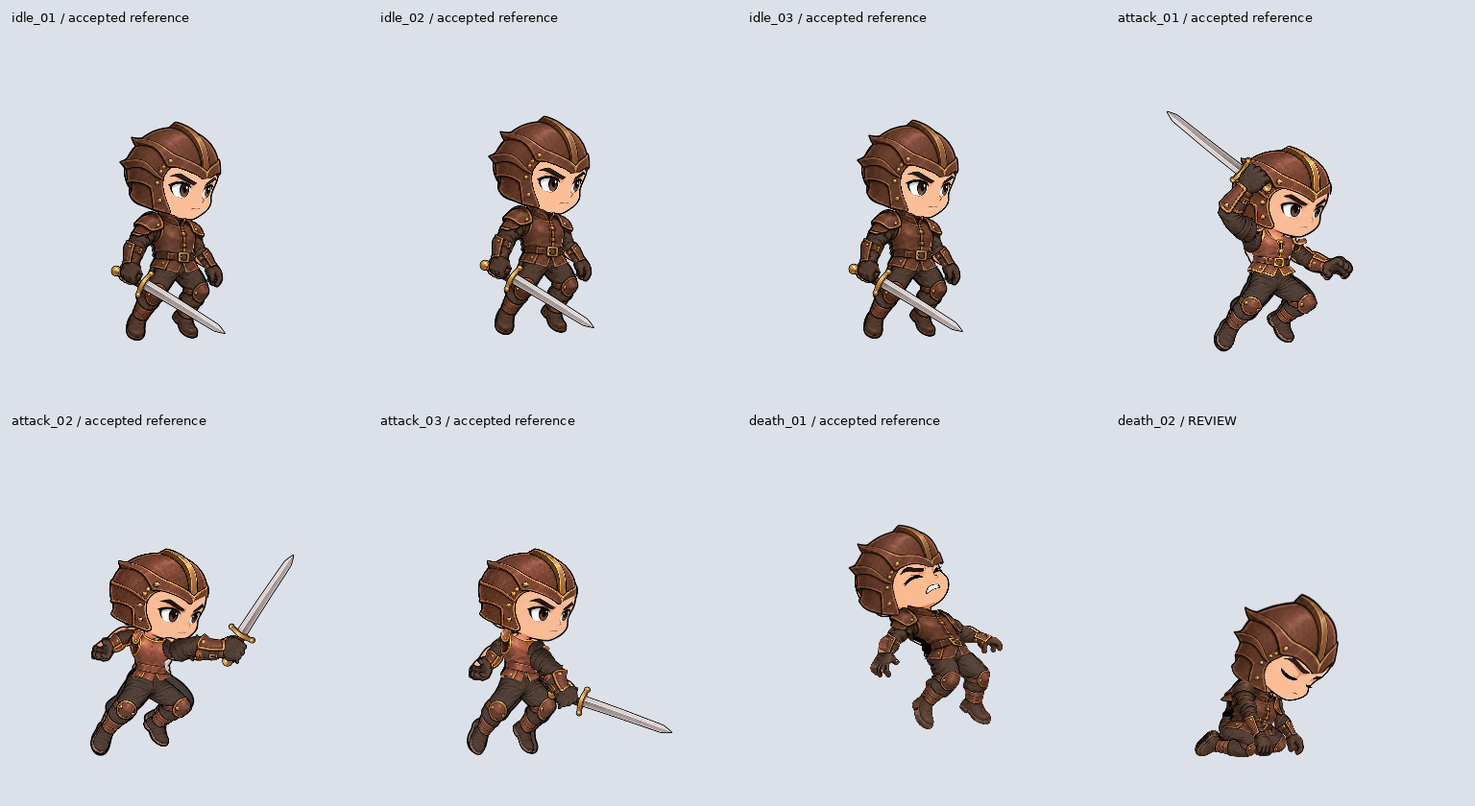
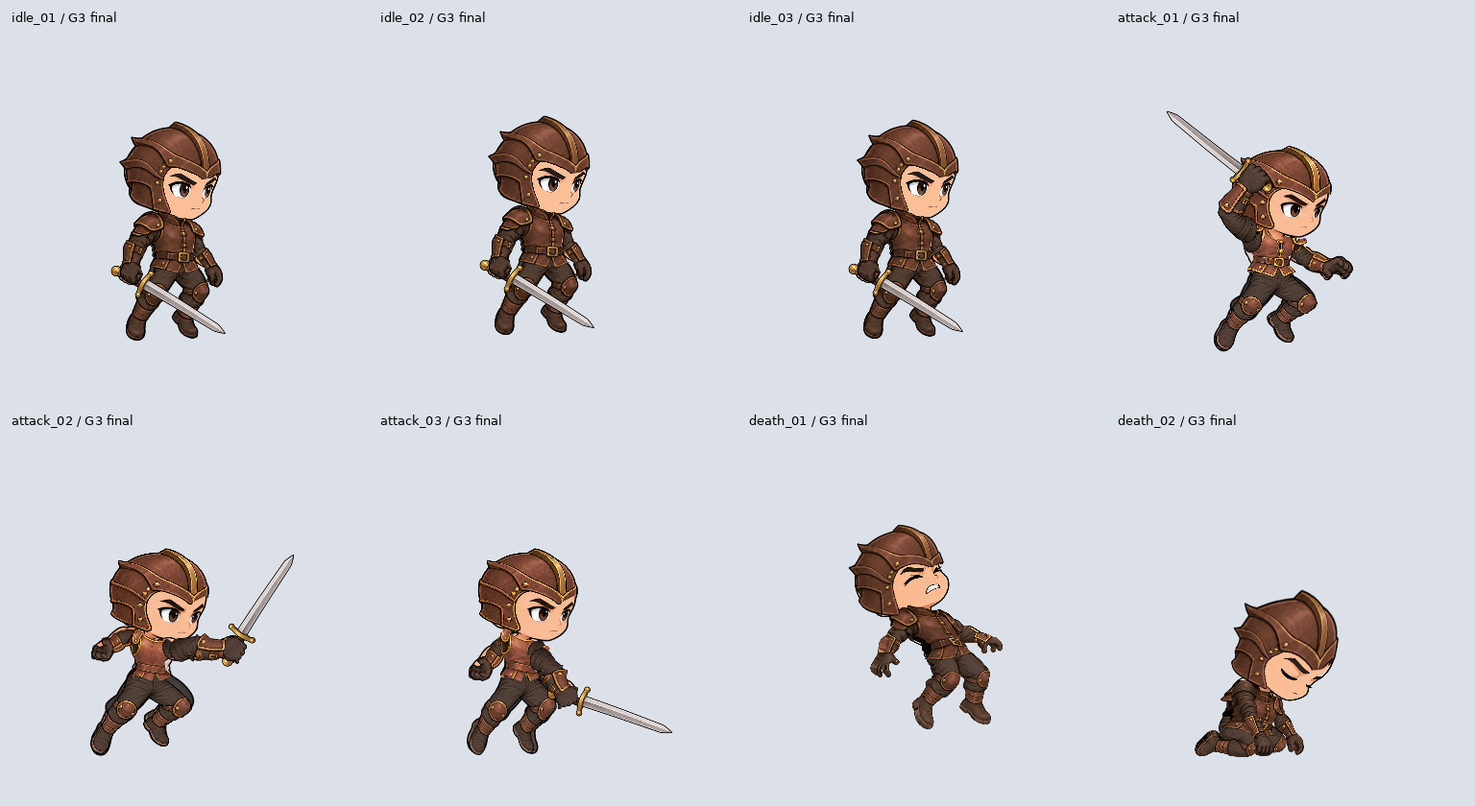
art(g16): finalize Death_02 helmet lift and hand off complete G3 artwork

diff --git a/docs/g16-leather-g2/g3/build_current_qa.py b/docs/g16-leather-g2/g3/build_current_qa.py
@@ -23,7 +23,7 @@ for f in frames:
         path=source(f)/(n+'.png');im=Image.open(path);assert im.size==(768,768) and im.mode=='RGBA'
         a=np.array(im)[:,:,3];assert not a[0].any() and not a[-1].any() and not a[:,0].any() and not a[:,-1].any()
         parts[n]=im
-        rec={'frame':f,'layer':n,'path':str(path.relative_to(R)),'sha256':sha(path.read_bytes()),'dimensions':[768,768],'mode':'RGBA','origin':[0,0],'alphaBounds':im.getbbox(),'alphaNonzeroPixels':int((a>0).sum()),'edgeAlphaNonzero':0,'artStatus':'OWNER_REVIEW_PENDING' if f=='death_02' else 'ESTABLISHED_OWNER_ACCEPTED_REFERENCE'}
+        rec={'frame':f,'layer':n,'path':str(path.relative_to(R)),'sha256':sha(path.read_bytes()),'dimensions':[768,768],'mode':'RGBA','origin':[0,0],'alphaBounds':im.getbbox(),'alphaNonzeroPixels':int((a>0).sum()),'edgeAlphaNonzero':0,'artStatus':'OWNER_ACCEPTED_G3'}
         if not a.any():
             rec['emptyReason']='Owner: coverage belongs to each equipment piece; no shared underlay artwork' if n=='coverage_underlay' else 'Death releases weapon; canonical Azure Death contract requires no grip and selects a transparent sword.'
             assert n=='coverage_underlay' or (n=='sword' and f.startswith('death'))
@@ -66,7 +66,7 @@ def sheet(items,path,cols=3):
     rows=(len(items)+cols-1)//cols;im=Image.new('RGB',(cols*384,rows*420),(220,225,233));dr=ImageDraw.Draw(im)
     for i,f in enumerate(items):
         x=(i%cols)*384;y=(i//cols)*420
-        dr.text((x+12,y+10),f+(' / REVIEW' if f=='death_02' else ' / accepted reference'),font=small,fill='black')
+        dr.text((x+12,y+10),f+' / G3 final',font=small,fill='black')
         im.paste(flat(comps[f]).resize((384,384),Image.Resampling.NEAREST),(x,y+32))
     im.save(path)
 sheet(frames,Q/'FULL_SET_CONTACT_SHEET.png',4)
@@ -88,13 +88,13 @@ for f in frames[6:]:
     crop=(100,140,740,680) if f=='death_01' else (150,220,530,710)
     w=crop[2]-crop[0];h=crop[3]-crop[1];compare=Image.new('RGB',(w*3,h+50),(220,225,233));dr=ImageDraw.Draw(compare)
     base=Image.open(R/'r2-upload/hero/v5/g2/base'/(f+'.png')).convert('RGBA')
-    for i,(label,im) in enumerate([('Canonical Base',base),('Azure / main resolver',az),('Leather / '+('OWNER REVIEW' if f=='death_02' else 'OWNER APPROVED'),comps[f])]):
+    for i,(label,im) in enumerate([('Canonical Base',base),('Azure / main resolver',az),('Leather / OWNER ACCEPTED',comps[f])]):
         dr.text((i*w+10,12),label,font=small,fill='black');compare.paste(flat(im.crop(crop)),(i*w,45))
     compare.save(D/(f.upper()+'_COMPARISON.png'))
 
 parts_sheet=Image.new('RGB',(800,7*230+40),(220,225,233));dr=ImageDraw.Draw(parts_sheet)
 for col,f in enumerate(frames[6:]):
-    dr.text((col*400+12,10),f+(' / Owner approved' if col==0 else ' / Owner review'),font=font,fill='black')
+    dr.text((col*400+12,10),f+' / Owner accepted',font=font,fill='black')
     for row,n in enumerate(names):
         im=Image.open(source(f)/(n+'.png'));box=im.getbbox();y=40+row*230
         dr.text((col*400+12,y+5),n,font=small,fill='black')
@@ -103,23 +103,37 @@ for col,f in enumerate(frames[6:]):
         else:dr.text((col*400+20,y+90),'INTENTIONALLY TRANSPARENT',font=small,fill='black')
 parts_sheet.save(D/'DEATH_PARTS_SHEET.png')
 
-# Direct before/after study of the requested order correction, identical art.
-old=Image.open(R/'r2-upload/hero/v5/g2/base/death_02.png').convert('RGBA')
-for n in ['coverage_underlay','legs_boots','arm_rear','arm_front','torso_armor','helmet','sword']:
-    old=Image.alpha_composite(old,Image.open(source('death_02')/(n+'.png')).convert('RGBA'))
-new=comps['death_02'];diff=np.any(np.array(old)!=np.array(new),axis=2)
-arm=np.array(Image.open(source('death_02')/'arm_rear.png'))[:,:,3]>0
-assert not (diff & ~arm).any()
+# Final Owner instruction: only Death_02 helmet moves up 8px from 03b50c0.
+previous='03b50c08c06d5decb1cc9f246a3c0f70e4aa50b6'
+oldhelmet=Image.open(io.BytesIO(gitbytes(previous,source('death_02')/'helmet.png'))).convert('RGBA')
+newhelmet=Image.open(source('death_02')/'helmet.png').convert('RGBA')
+expected=Image.new('RGBA',(768,768));expected.paste(oldhelmet,(0,-8))
+assert expected.tobytes()==newhelmet.tobytes()
+assert not np.array(oldhelmet)[:8,:,3].any()
+unchanged=0
 for rec in records:
-    path=R/rec['path'];assert path.read_bytes()==gitbytes('2264d4117a711acaf453631fefd8d9cb36a34c16',path)
-order_sheet=Image.new('RGB',(1000,950),(220,225,233));dr=ImageDraw.Draw(order_sheet)
-for col,(label,im) in enumerate([('BEFORE / right arm behind armor',old),('AFTER / right arm in front of armor',new)]):
-    x=col*500;dr.text((x+12,14),label,font=small,fill='black')
-    order_sheet.paste(flat(im.crop((180,320,490,690))).resize((465,555),Image.Resampling.NEAREST),(x+17,50))
-    order_sheet.paste(flat(im.crop((240,505,365,605))).resize((450,360),Image.Resampling.NEAREST),(x+25,580))
-order_sheet.save(D/'DEATH_02_ARM_ORDER_COMPARISON.png')
-report={'status':'DEATH_01_APPROVED_DEATH_02_OWNER_REVIEW_PENDING','mainChecked':subprocess.check_output(['git','rev-parse','origin/main'],cwd=R,text=True).strip(),'risk':'LOW offline order-only correction','expectedPaths':56,'presentPaths':56,'death02CandidatePaths':7,'establishedReferencePaths':49,'finalInventoryPromoted':False,'G3Complete':False,'G4Ready':False,'baseSha256':basehash,'protectedExistingEquipmentPngCount':len(protected),'protectedExistingEquipmentByteIdentical':True,'all56EquipmentPngsByteIdenticalTo':'2264d4117a711acaf453631fefd8d9cb36a34c16','death02RightArmOrderCorrection':{'sourceLayer':'arm_rear','anatomy':'right arm','visibleOrder':'right arm in front of chest','changedCompositePixels':int(diff.sum()),'allChangedPixelsInsideRightArmAlpha':True,'runtimeCompatible':None,'runtimeCompatibilityStatus':'UNREVIEWED_SEPARATE_DEV_GATE'},'death01ApprovedCompositePixelIdentical':True,'runtimeChanged':False,'productionManifestChanged':False,'runtimeOffsetBaked':False,'actualRuntimeRendererTested':False,'fullSetVisualAcceptance':False,'assemblyOrderByFrame':orders,'azureSources':azureledger,'handOcclusion':hand,'files':records,'remainingGate':'Owner acceptance of Death_02, then reconcile acceptance state and proceed G4 visual QA; separate DEV review for Attack/Death_02 foreground arm order and Attack hand crops.'}
+    path=R/rec['path']
+    if not (rec['frame']=='death_02' and rec['layer']=='helmet'):
+        assert path.read_bytes()==gitbytes(previous,path);unchanged+=1
+assert unchanged==55
+report={'status':'G16 G3 ARTWORK COMPLETE — G4 VISUAL QA PENDING',
+    'mainChecked':subprocess.check_output(['git','rev-parse','origin/main'],cwd=R,text=True).strip(),
+    'risk':'LOW final integer helmet placement and artwork handoff',
+    'expectedPaths':56,'presentPaths':56,'acceptedG3Paths':56,'candidatePaths':0,
+    'finalInventoryPromoted':True,'G3Complete':True,'G4Ready':True,'G4VisualQaPassed':False,
+    'ownerFinalInstruction':'2026-10-28: raise Death_02 helmet 8px then submit; preserve foreground right arm',
+    'finalChange':{'frame':'death_02','layer':'helmet','offlineTranslation':[0,-8],
+        'previousCommit':previous,'exactPixelTranslationVerified':True,'clippedNonzeroAlphaPixels':0,
+        'otherEquipmentPngsByteIdentical':unchanged,'generatedArtworkUsedForFinalChange':False},
+    'baseSha256':basehash,'protectedExistingEquipmentPngCount':len(protected),
+    'protectedExistingEquipmentByteIdentical':True,'death01ApprovedCompositePixelIdentical':True,
+    'death02RightArmOrder':{'sourceLayer':'arm_rear','visibleOrder':'right arm in front of chest',
+        'runtimeCompatibilityStatus':'SEPARATE_DEV_GATE_NOT_APPROVED'},
+    'runtimeChanged':False,'productionManifestChanged':False,'runtimeOffsetBaked':False,
+    'actualRuntimeRendererTested':False,'assemblyOrderByFrame':orders,'azureSources':azureledger,
+    'handOcclusion':hand,'files':records,
+    'remainingGate':'G4 full-set visual/animation QA, then G5 runtime regression and separate DEV review for Attack/Death_02 foreground arm order and Attack hand crops. G6 R2/manifest/deploy not authorized.'}
 (P/'VALIDATION.json').write_text(json.dumps(report,indent=2)+'\n')
 (D/'HAND_OCCLUSION.json').write_text(json.dumps({'frames':{k:v for k,v in hand.items() if k.startswith('death')},'attackStatus':'UNRESOLVED_SEPARATE_DEV_GATE','runtimeChanged':False},indent=2)+'\n')
 (P/'SHA256SUMS').write_text(''.join(r['sha256']+'  '+str(Path(r['path']).relative_to(P.relative_to(R)))+'\n' for r in records))
-print('PASS: 56 declared PNG paths (7 Death_02 candidates); Base and 49 existing equipment checkpoints preserved; Death_01 matches accepted preview. Owner Death_02 acceptance and G4 remain pending.')
+print('PASS: 56 final G3 paths; only Death_02 helmet changed by exact [0,-8]; other 55 equipment PNGs, all Bases and accepted Death_01 unchanged. G4 visual QA pending.')

diff --git a/docs/g16-leather-g2/g3/death-review/build.py b/docs/g16-leather-g2/g3/death-review/build.py
@@ -123,5 +123,5 @@ protected=list((R/'r2-upload/hero/v5/g2/base').glob('*.png'))+list((R/'docs/g16-
 for f in protected:assert subprocess.check_output(['git','show','HEAD:'+str(f.relative_to(R))],cwd=R)==f.read_bytes()
 (P/'PLACEMENT.json').write_text(json.dumps(guides,indent=2)+'\n')
 (P/'DONOR_ADMISSION.json').write_text(json.dumps(admissions,indent=2)+'\n')
-(P/'VALIDATION.json').write_text(json.dumps({'status':'DEATH_01_OWNER_APPROVED_DEATH_02_REVIEW_PENDING','mainChecked':subprocess.check_output(['git','rev-parse','origin/main'],cwd=R,text=True).strip(),'risk':'MEDIUM','ownerAccepted':'2026-10-28 latest placement-review-v2 after.png at 52252e222217c3b8207093d7dff59e3974c74698','approvedOfflineShifts':{'helmet':[-2,-8],'torso_armor':[-2,-6]},'torsoFacing':'front / reclined three-quarter','files':records,'azureSources':azsources,'protectedPngCount':len(protected),'protectedByteIdentical':True,'baseResampled':False,'runtimeChanged':False,'runtimeOffsetBaked':False,'productionManifestChanged':False,'G3Complete':False,'G4Ready':False,'death01VisualAcceptance':True,'death02VisualAcceptance':False,'technicalChecks':'PASS; Death_02 still requires Owner visual review'},indent=2)+'\n')
+(P/'VALIDATION.json').write_text(json.dumps({'status':'DEATH_01_OWNER_APPROVED','mainChecked':subprocess.check_output(['git','rev-parse','origin/main'],cwd=R,text=True).strip(),'risk':'MEDIUM','ownerAccepted':'2026-10-28 latest placement-review-v2 after.png at 52252e222217c3b8207093d7dff59e3974c74698','approvedOfflineShifts':{'helmet':[-2,-8],'torso_armor':[-2,-6]},'torsoFacing':'front / reclined three-quarter','files':records,'azureSources':azsources,'protectedPngCount':len(protected),'protectedByteIdentical':True,'baseResampled':False,'runtimeChanged':False,'runtimeOffsetBaked':False,'productionManifestChanged':False,'death01VisualAcceptance':True,'technicalChecks':'PASS; final all-frame gate is in ../VALIDATION.json'},indent=2)+'\n')
 print('PASS: Death_01 accepted positions baked into 7 paths; Base, Idle and Attack bytes unchanged.')

diff --git a/docs/g16-leather-g2/g3/death-review/build_death02.py b/docs/g16-leather-g2/g3/death-review/build_death02.py
@@ -41,6 +41,8 @@ guides={};parts={n:Image.new('RGBA',(768,768)) for n in LAYERS}
 parts['helmet']=warp('helmet',
  [[260,290],[280,235],[355,195],[420,230],[449,280],[435,308],[390,287],[345,278],[325,329],[352,375],[295,356]],
  [[276,434],[295,380],[395,342],[456,391],[470,452],[444,500],[405,466],[360,454],[315,485],[331,534],[277,502]])
+# Owner final instruction: helmet up exactly 8px, then submit the artwork.
+shifted=Image.new('RGBA',(768,768));shifted.paste(parts['helmet'],(0,-8));parts['helmet']=shifted
 parts['torso_armor']=warp('torso_armor',
  [[281,400],[307,398],[333,384],[360,395],[384,402],[409,410],[423,426],[322,437],[397,438],[317,467],[382,473],[355,490],[309,497],[407,502]],
  [[252,538],[278,532],[306,535],[328,550],[347,552],[355,566],[365,584],[270,566],[348,588],[254,594],[321,610],[288,610],[239,615],[338,631]])
@@ -76,5 +78,5 @@ order=['coverage_underlay','legs_boots','arm_front','torso_armor','helmet','swor
 out=base.copy()
 for n in order:out=Image.alpha_composite(out,parts[n])
 Q=P/'qa';Q.mkdir(exist_ok=True);out.save(Q/'death_02.png')
-(P/'DEATH_02_PLACEMENT.json').write_text(json.dumps({'guides':guides,'admissions':specs,'order':order,'runtimeOffsetBaked':False,'generatedBaseUsed':False,'torsoFacing':'front / bowed three-quarter'},indent=2)+'\n')
-print('Built 7 Death_02 candidate layers from distinct canonical kneeling pose; visual acceptance pending.')
+(P/'DEATH_02_PLACEMENT.json').write_text(json.dumps({'guides':guides,'admissions':specs,'order':order,'finalHelmetOfflineTranslation':[0,-8],'ownerFinalInstruction':'2026-10-28: raise helmet 8px then submit; right arm remains in front of chest','artStatus':'OWNER_ACCEPTED_FOR_G3_HANDOFF','runtimeOffsetBaked':False,'generatedBaseUsed':False,'torsoFacing':'front / bowed three-quarter'},indent=2)+'\n')
+print('Built 7 final Death_02 layers with Owner-requested helmet up 8px and foreground right arm.')

diff --git a/docs/g16-leather-g2/g3/README.md b/docs/g16-leather-g2/g3/README.md
@@ -1,28 +1,26 @@
-# G16 G3 — current artwork review
+# G16 G3 — artwork handoff
 
-Status: **DEATH_01 OWNER APPROVED / DEATH_02 OWNER REVIEW PENDING** (2026-10-28). Existing Draft PR #160, branch `art/g16-g3-leather-frames`. Latest main inspected: `614d8e363efa074d257319f3e3578a56196c2a06`. Risk MEDIUM: isolated Death equipment art and scoped documentation cleanup.
+Status: **G16 G3 ARTWORK COMPLETE — G4 VISUAL QA PENDING** (2026-10-28). Existing Draft PR #160, branch `art/g16-g3-leather-frames`. Latest main checked: `614d8e363efa074d257319f3e3578a56196c2a06`. Risk LOW for the final exact helmet placement; no application/runtime source change.
 
-## Current source of truth
+## Final inventory and approval
 
-- `VALIDATION.json`: current 8-frame inventory and per-frame SHA-256, alpha, dimensions, origin, draw-order and hand-occlusion records.
-- `SHA256SUMS`: the 56 current declared equipment paths only, relative to this folder. Historical authoring checkpoints are not extra final exports.
-- `qa/FULL_SET_CONTACT_SHEET.png`: all eight actual export reassemblies. Idle/Attack/Death contact sheets and GIF previews are alongside it.
-- `death-review/DEATH_02_COMPARISON.png`: canonical Base / current-main Azure resolver / Leather candidate, same crop, origin and scale.
-- `death-review/DEATH_PARTS_SHEET.png`: both Death frames and all 14 isolated declared pieces.
-- `PROJECT_LEAD_HANDOFF.md`: one current, copy-ready handoff. Superseded checkpoint READMEs, stale validation ledgers and handoffs have been removed at Owner request; `CLEANUP.json` records scope and recovery commit.
+All 8 frames × 7 paths = **56 accepted G3 PNG paths** are present. `VALIDATION.json` declares every path, SHA-256, dimensions, RGBA, alpha envelope, origin, assembly order, hand-occlusion status and Base source hash. `SHA256SUMS` verifies the 56 final exported paths relative to this folder. All are 768×768 RGBA, fixed origin [0,0], no nonzero canvas-edge alpha, no baked runtime Y=84. Underlay and Death sword have explicit emptyReason. No additional equipment export path is introduced.
 
-## Approval record and export locations
+Idle remains in exports/idle_01–03. All 21 approved Attack files remain in attack-back-torso-review/exports/attack_01–03. Death files remain in death-review/exports/death_01–02. Historical authoring checkpoints are source material, not additional final exports.
 
-Idle: approved G2 material, exact canonical bob translations, `exports/idle_01` through `idle_03`. Attack: all poses and corrected Attack_02/03 rear torso surfaces approved; all 21 PNGs stay unchanged in `attack-back-torso-review/exports/attack_01` through `attack_03`. Death_01: Owner accepted the latest two-step placement preview at `52252e2`, then said to continue. Helmet [-2,-8] and chest [-2,-6] are now baked as exact integer offline shifts into `death-review/exports/death_01`; the actual reassembly matches the accepted preview pixel-for-pixel. The five other Death_01 files are byte-identical.
+Death_01 retains its accepted helmet [-2,-8] / torso [-2,-6] placement; its actual reassembly matches the Owner-approved preview pixel-for-pixel. Death_02 retains the distinct canonical kneeling anatomy and original face; anatomical right arm (arm_rear) is in front of the chest. The Owner's final instruction was to raise its helmet another 8px and submit. The exact [0,-8] shift is now baked into its existing helmet PNG, with no resampling, clipping or regeneration. The other 55 equipment PNGs match commit 03b50c08c06d5decb1cc9f246a3c0f70e4aa50b6 byte-for-byte. All 8 canonical Bases are unchanged.
 
-Death_02: seven new candidate files in `death-review/exports/death_02`. It uses its own canonical kneeling/collapsed anatomy, manual clothing-only helmet/chest reconstruction from approved Idle pieces, and three bounded isolated-part ImageGen RGB donors. No generated Base/face/body geometry is admitted. Prompts, inputs, donor masters and admission masks remain available for future edits.
+## Review and reproduction
 
-## Gate boundaries
+- qa/FULL_SET_CONTACT_SHEET.png; Idle/Attack sheets and all three animation GIFs in qa/.
+- death-review/DEATH_01_COMPARISON.png and DEATH_02_COMPARISON.png: same-origin Base/current-main Azure resolver/final Leather comparisons.
+- death-review/DEATH_CONTACT_SHEET.png and DEATH_PARTS_SHEET.png: both Death poses and all fourteen isolated pieces.
+- PROJECT_LEAD_HANDOFF.md: current copy-ready handoff. CLEANUP.json records removal of obsolete status documents, stale ledgers and superseded comparison drafts. Current approval evidence, generation prompts, source masters and contracts are retained.
 
-All **56 declared paths are present**, consisting of 49 established reference paths and **7 unaccepted Death_02 candidate paths**. This is not 56/56 visual acceptance, final inventory promotion, G3 completion or G4 acceptance. Review Death_02 next; after acceptance reconcile the final state and continue G4. Technical checks do not substitute for Owner visual acceptance.
+Rebuild Death_01 with death-review/build.py; Death_02 with death-review/build_death02.py; refresh inventory/sheets/GIFs with build_current_qa.py (paths relative to this folder, run Python from repository root). Verify with `sha256sum -c SHA256SUMS` from this folder. The final QA builder checks the exact requested helmet shift and preservation of the other 55 files.
 
-All eight original Bases, 21 Attack PNGs and 28 protected G2/G3 Idle checkpoints remain byte-identical. All current exports are 768×768 RGBA at origin [0,0], no edge alpha/clipping, no baked runtime Y=84. Underlay stays empty; Death sword stays empty with explicit emptyReason.
+## Remaining gates
 
-Idle uses inherited reviewed hand crops. Attack uses the Owner-approved offline order. Death_02 now also puts the anatomical right arm (arm_rear) in front of the torso, per Owner correction; Death_01 stays unchanged. Attack/Death_02 order and Attack crop compatibility remain a separate DEV gate. Empty Death weapons need no post-sword hand crop. All-frame sheets/GIFs are offline artwork evidence, not actual renderer regression tests. No production manifest, runtime, Base/Azure/Skeleton, R2, merge, gameplay, API/Worker/D1 or deployment change.
+G3 artwork completion is not G4 visual/animation QA, G5 renderer regression approval or G6 publication. Project Lead/Owner should review the final full set and animation sheets at G4. Separate DEV concern: Attack/Death_02 foreground right-arm order differs from merged leather_overlap_v1; Attack per-pose runtime hand crops remain unresolved. Idle reviewed crops are retained; empty Death weapons require no post-sword hand crop. Do not copy Idle crops or claim that offline reassemblies certify the renderer.
 
-Rebuild Death_01: `python docs/g16-leather-g2/g3/death-review/build.py`. Rebuild Death_02: `python docs/g16-leather-g2/g3/death-review/build_death02.py` (do not use --prepare unless updating pose inputs). Refresh current inventory/sheets/GIFs: `python docs/g16-leather-g2/g3/build_current_qa.py`. Verify the final-path ledger with `sha256sum -c SHA256SUMS` from this folder. Older nested scripts/images are source-authoring checkpoints only; their removed status reports must not be treated as current gates.
+No runtime/profile/slot, production manifest, Base/Azure/Skeleton, gameplay, API/Worker/D1, R2, merge or deployment change. Keep PR Draft pending the applicable review gates.

diff --git a/docs/g16-leather-g2/g3/death-review/README.md b/docs/g16-leather-g2/g3/death-review/README.md
@@ -1,17 +1,15 @@
-# G16 Death artwork — current review
+# G16 Death — final G3 artwork
 
-**Death_01 OWNER APPROVED / Death_02 OWNER REVIEW PENDING**, 2026-10-28. Main `614d8e3`, existing Draft PR #160. Current gate/inventory/handoff: [G3 README](../README.md) and [Project Lead handoff](../PROJECT_LEAD_HANDOFF.md).
+**G16 G3 ARTWORK COMPLETE — G4 VISUAL QA PENDING**, 2026-10-28. Main checked 614d8e3; existing Draft PR #160. Final inventory and current handoff: [G3 README](../README.md) / [Project Lead handoff](../PROJECT_LEAD_HANDOFF.md).
 
-## Death_01 accepted result
+Death_01: Owner accepted helmet [-2,-8] and torso [-2,-6] at 52252e2. Exact offline integer placements are baked into its seven paths; actual reassembly remains pixel-identical to the accepted preview. The latest accepted comparison is preserved in qa/DEATH_01_OWNER_APPROVAL_SHEET.png.
 
-Owner accepted the final placement preview at `52252e222217c3b8207093d7dff59e3974c74698`: helmet left 2px/up 8px, torso left 2px/up 6px from the initial prototype. Those exact integer translations are baked into the existing seven layer paths; the other five files are byte-identical. The actual reassembly matches the accepted preview pixel-for-pixel. `qa/DEATH_01_OWNER_APPROVAL_SHEET.png` preserves the latest approved comparison. Superseded placement v1/v2 trial folders and the prior visual-hold sheet are removed. Original source checkpoints remain recoverable in Git.
+Death_02: canonical bowed/kneeling anatomy, original face/expression, approved Leather material and foreground anatomical right arm (arm_rear) are retained. Owner's final instruction: raise helmet 8px then submit. Its existing helmet PNG is moved [0,-8] with no interpolation or clipping; the other six Death_02 files and all 49 other final-frame files remain byte-identical to 03b50c0. No new generated artwork is used for this final correction.
 
-## Death_02 candidate
+DEATH_02_COMPARISON.png shows canonical Base, current-main Azure resolver and final Leather using one common canvas crop/scale. DEATH_CONTACT_SHEET.png, DEATH_PARTS_SHEET.png, ../qa/FULL_SET_CONTACT_SHEET.png and animation GIFs are refreshed from the actual exports. The superseded right-arm before/after comparison has been removed; Git history retains the earlier checkpoint.
 
-`DEATH_02_COMPARISON.png` compares canonical Base, main-manifest Azure resolved through the actual resolver and the actual Leather seven-PNG reassembly. It uses one shared origin/crop/scale, without runtime Y=84. `DEATH_PARTS_SHEET.png` shows the isolated pieces. `DEATH_CONTACT_SHEET.png` shows both frames; all-frame contact sheets and animation previews are in ../qa/.
+The distinct Death_02 was constructed from isolated approved Idle helmet/chest material using clothing-only TPS plus three bounded built-in ImageGen sleeve/glove/folded-leg RGB donors. No donor anatomy, whole Hero or generated face was admitted. Exact prompts, target/design inputs, complete donors, guides and masks remain in masters/ and DEATH_02_PLACEMENT.json. Use build.py for Death_01, build_death02.py for Death_02, and ../build_current_qa.py for final integrity checks and reassemblies. Each piece owns its hidden insertion material; underlay stays transparent. Death sword stays transparent under the approved no-grip/released-weapon pose contract.
 
-Canonical bowed/kneeling anatomy and original face/expression are preserved. Helmet and front torso use clothing-only TPS reconstruction from approved G2 isolated material, with explicitly recorded manual visual guides (not exact rig pivots). Three built-in ImageGen edits provide isolated sleeves/gloves/folded-leg material. Only donor RGB is admitted inside canonical per-part alpha masks; generated anatomy and donor geometry are rejected. Sleeve caps, chest shirt coverage and waistband insertion belong to their own equipment piece. `coverage_underlay` remains transparent. The Death sword is intentionally transparent because the pose releases it and the approved Azure contract specifies no grip.
+Death_01 uses Base → legs → both arms → torso → helmet; Death_02 uses Base → legs → left arm → torso → helmet → right arm (empty paths omitted). These are art assemblies. Death_02 foreground arm order and Attack order/crops still need separate DEV compatibility review; no runtime/profile source is changed. Empty Death weapons need no post-sword crop.
 
-Use `build.py` for accepted Death_01, `build_death02.py` for the distinct Death_02 (never a translation/rotation of Death_01), and ../build_current_qa.py for current validation, comparison sheets and animation previews. `DEATH_02_PLACEMENT.json` records the per-part guides and masks; `masters/death_02/PROMPTS.json` records exact built-in ImageGen prompts. Retained masters/ inputs, complete donors and masks are reusable source material, not additional exported paths.
-
-Death_02 still needs Owner visual acceptance. Do not infer G3 completion, G4 visual approval or runtime/production readiness from file presence. Death_01 retains its accepted Base → legs → both arms → torso → helmet assembly. Owner corrected Death_02 to Base → legs → left arm → torso → helmet → right arm (empty paths omitted), bringing the anatomical right arm (arm_rear) in front of the armor. See DEATH_02_ARM_ORDER_COMPARISON.png. All 56 equipment PNG bytes are unchanged by this order-only correction. This foreground arm order still needs separate DEV compatibility review; no runtime/profile source is changed. Death weapons need no post-sword crop. Existing Attack order and crop review remains separate. No R2, production manifest integration, merge or deploy.
+Owner accepted G3 handoff subject to the exact final helmet lift. G4 full-set visual/animation QA and later runtime/publication gates remain pending. No R2, production manifest integration, merge or deployment authorization is implied.

diff --git a/docs/g16-leather-g2/g3/PROJECT_LEAD_HANDOFF.md b/docs/g16-leather-g2/g3/PROJECT_LEAD_HANDOFF.md
@@ -1,11 +1,9 @@
-G16 G3 — DEATH_01 APPROVED / DEATH_02 OWNER REVIEW PENDING
+G16 G3 ARTWORK COMPLETE — G4 VISUAL QA PENDING
 
-Continue existing Draft PR #160 on art/g16-g3-leather-frames. Latest main checked 614d8e363efa074d257319f3e3578a56196c2a06. Risk MEDIUM.
+Existing Draft PR #160 | branch art/g16-g3-leather-frames | latest main checked 614d8e363efa074d257319f3e3578a56196c2a06.
 
-Death_01 accepted helmet [-2,-8] and torso [-2,-6] are baked into its existing seven exports; reassembly matches the accepted preview pixel-for-pixel. Death_02 now has seven candidate layers, preserving distinct canonical kneeling anatomy and original Base face. Latest Owner correction puts Death_02 anatomical right arm (arm_rear) in front of torso; all 56 PNG bytes and accepted Death_01 are unchanged. Review docs/g16-leather-g2/g3/death-review/DEATH_02_ARM_ORDER_COMPARISON.png, DEATH_02_COMPARISON.png and DEATH_PARTS_SHEET.png. Inputs, bounded donors, exact ImageGen prompts, masks and placement guides are retained.
+Owner accepted Death_01, corrected Death_02 right arm to foreground, then instructed: raise Death_02 helmet 8px and submit. Final helmet is an exact [0,-8] pixel translation from 03b50c08c06d5decb1cc9f246a3c0f70e4aa50b6. Other 55 equipment PNGs and all 8 canonical Bases remain byte-identical. Death_01 still matches its accepted preview pixel-for-pixel. No regeneration, anatomy change, runtime offset or extra exported PNG path.
 
-56/56 declared PNG paths pass dimension/RGBA/alpha/origin/SHA checks, but 7 Death_02 paths remain unaccepted candidates. All 8 canonical Bases, 21 approved Attack and 28 protected Idle checkpoints are unchanged. Idle/Attack/Death sheets, GIFs and full-set contact sheet are refreshed. No G3-complete / G4-accepted claim or final inventory promotion. Separate runtime concern: Attack per-pose hand crops/order and Death_02 foreground arm order still require DEV review; empty Death swords need no hand crop.
+Final 8×7 inventory = 56 G3-accepted 768×768 RGBA PNG paths. Dimension/alpha/edge/origin/SHA checks and exact final-shift preservation checks PASS. Empty underlay/Death weapon reasons, per-frame source hashes, art orders, Idle reviewed hand crops and unresolved Attack crops are declared in VALIDATION.json. SHA256SUMS verifies all 56 paths. Idle/Attack/Death contact sheets, GIFs, full-set sheet, Base/Azure comparisons and isolated Death pieces are refreshed. Source prompts/masters and approval evidence are retained; superseded status documents/ledgers and comparison drafts were removed per Owner request (CLEANUP.json).
 
-Owner-requested cleanup removes superseded checkpoint READMEs/handoffs/stale ledgers and Death_01 placement trials, preserving current approval evidence, contracts, source masters and actual approved exports. See CLEANUP.json. No production manifest, R2, runtime, merge or deployment change.
-
-Next: obtain Owner acceptance or a bounded correction for Death_02, then reconcile final acceptance and advance to G16 G3 ARTWORK COMPLETE — G4 VISUAL QA PENDING. Keep PR Draft.
+Next: perform G4 full-set visual/animation QA. Separate DEV gate: Attack and Death_02 foreground right-arm ordering differs from leather_overlap_v1; Attack runtime hand crops remain unresolved. Empty Death swords need no post-sword hand crop. G5 renderer tests and G6 publication remain unapproved. No runtime, production manifest, R2, merge or deploy change. Keep PR Draft.

diff --git a/docs/EQUIPMENT-SPRITE-PIPELINE-V1.md b/docs/EQUIPMENT-SPRITE-PIPELINE-V1.md
@@ -1,5 +1,5 @@
 # ThornieDungeons — Equipment Sprite Pipeline V1
-Status: **OWNER APPROVED — G16 G2 RUNTIME COMPATIBILITY IMPLEMENTED / PR REVIEW PENDING** (2026-10-27)
+Status: **OWNER APPROVED — G16 G3 ARTWORK COMPLETE / G4 VISUAL QA PENDING** (2026-10-28)
 Scope: Hero V5 G2 modular equipment authoring, review and scoped runtime compatibility. Controlled art creation/correction follows the gates below; this document does not authorize R2 upload, gameplay/economy, Worker/API/D1 or deployment changes.
 Approved decisions: **HYBRID / AZURE-REFERENCE / FULL-SET-FIRST / G16 BEFORE SKELETON / WEAPON-FREE HERO + SEPARATE COMPLETE WEAPON**.
 
@@ -136,6 +136,9 @@ This section records the reusable method learned during the Attack_01–03 work.
 Evidence/provenance: `docs/g16-leather-g2/g3/owner-selected-recut/attack_01/` (layer, neck and bounded donor checkpoints), `attack-review-pack-v1/` (three-frame clothing reconstruction), and `attack-review-pack-v1/azure-comparison/` (same-scale Azure comparison). Historical pending wording is not rewritten; this section records Owner's subsequent pose acceptance and facing correction.
 
 ## 5. Gates and owner acceptance
+
+G16 current handoff: Owner accepted Death_01 and the Death_02 foreground right-arm order, then directed an exact 8px upward helmet shift and submission. The final 56-path artwork inventory and preservation checks are in `docs/g16-leather-g2/g3/VALIDATION.json`; final source/approval details and next gates are in its README and PROJECT_LEAD_HANDOFF.md. This closes artwork expansion only. G4 full-set visual/animation QA, separate DEV review of Attack/Death_02 foreground arm ordering and Attack hand crops, G5 runtime regression and G6 publication remain pending. No runtime, R2, production-manifest or deployment authorization is added.
+
 | Gate | Deliverable | Acceptance |
 | --- | --- | --- |
 | G0 Reference lock | Actual 8 Base frames, Azure refs/hashes, per-pose anchor map, silhouette zones | Exact provenance, unchanged Base and fixed origins |
